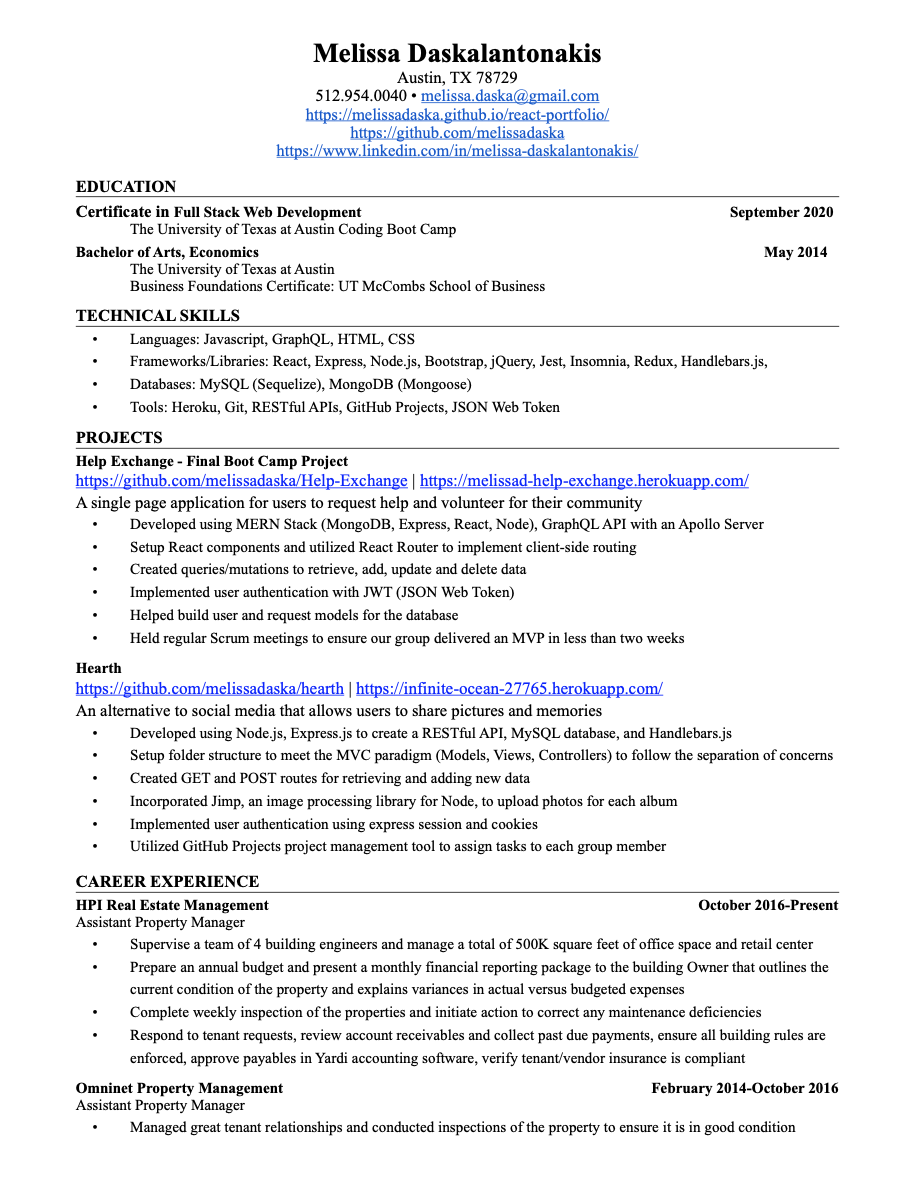
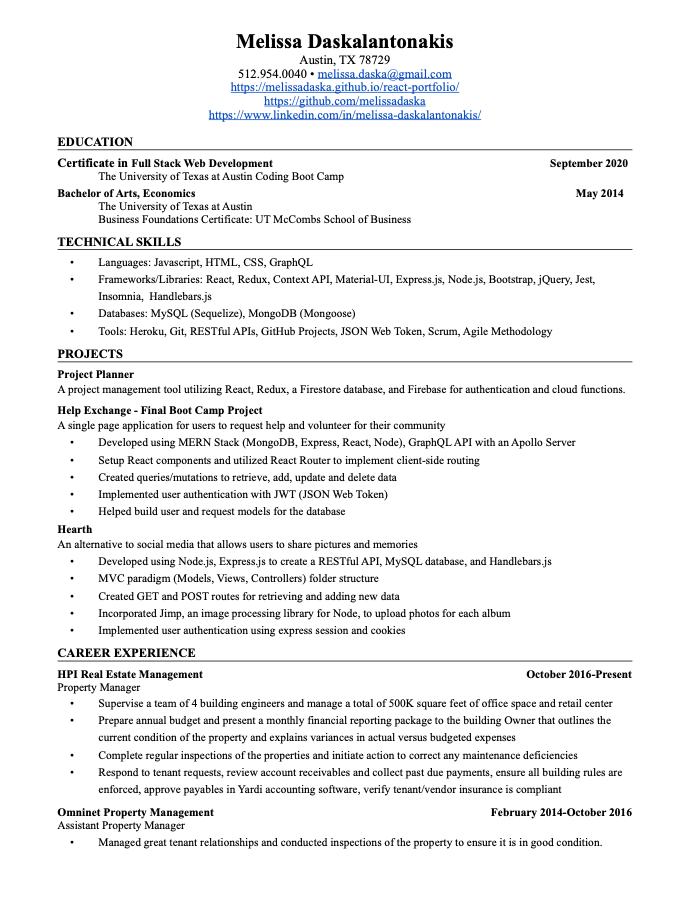
update pic and about me

Changed region(s): [[0.0611, 0.0312, 0.917, 0.9677]]

diff --git a/src/components/About/index.js b/src/components/About/index.js
@@ -11,7 +11,7 @@ class About extends Component {
                     <div className="col-10 section-content">
                         <img className="mt-3 mb-5 me" src={coverImage} alt="Melissa D"/>
                         <p>
-                        I currently reside in Austin, Texas with my husband and two loving dogs. I graduated from The University of Texas at Austin in 2014 with a Bachelor of Arts degree in Economics and I am currently an Assistant Property Manager for office buildings. I recently earned a certificate in full stack web development from The University of Texas at Austin with newly developed skills in JavaScript, React, MongoDB, Express.js, Node.js, MySQL, CSS, and HTML to name a few. For our final project, our team of three built a single-page MERN stack application that allows users to sign-up and request for help and/or volunteer to help within their community. I'm excited to leverage my skills in a fast-paced environment with a quality-driven team to help build applications with great user experience. I am very passionate about React and would love to find a position where I can continue to grow my knowledge and skills with React.
+                        I currently reside in Austin, Texas with my husband and two loving dogs. I graduated from The University of Texas at Austin in 2014 with a Bachelor of Arts degree in Economics and I am currently a Property Manager for office buildings. I recently earned a certificate in full stack web development from The University of Texas at Austin with newly developed skills in JavaScript, React, MongoDB, Express.js, Node.js, MySQL, CSS, and HTML. For our final project, our team of three built a single-page MERN stack application that allows users to sign-up and request for help and/or volunteer to help within their community. I am a hard working, dedicated and resourceful individual who is excited to leverage my skills in a fast-paced environment. I am looking to be part of a quality-driven team that builds applications with great user experience. I’m very open to learning new technology and I am willing to put in the hours to meet deadlines. I am very passionate about React and would love to find a position where I can continue to grow my knowledge and skills working with React.
                         </p>
                     </div>  
             </div>

diff --git a/src/components/Footer/index.js b/src/components/Footer/index.js
@@ -2,7 +2,7 @@ import React from 'react';
 import { FontAwesomeIcon } from '@fortawesome/react-fontawesome';
 import { faLinkedin } from '@fortawesome/free-brands-svg-icons';
 import { faGithub } from '@fortawesome/free-brands-svg-icons';
-import { faStackOverflow } from '@fortawesome/free-brands-svg-icons';
+// import { faStackOverflow } from '@fortawesome/free-brands-svg-icons';
 import '../../index.css';
 
 function Footer() {
@@ -16,9 +16,9 @@ function Footer() {
                 <li><a href="https://github.com/melissadaska">
                 <FontAwesomeIcon icon={faGithub} size="lg"/></a> 
                 </li>
-                <li><a href="https://stackoverflow.com/users/13025338/melissa-daskalantonakis">
+                {/* <li><a href="https://stackoverflow.com/users/13025338/melissa-daskalantonakis">
                 <FontAwesomeIcon icon={faStackOverflow}  size="lg"/></a> 
-                </li>
+                </li> */}
             </ul>
            </div>
         </footer>
